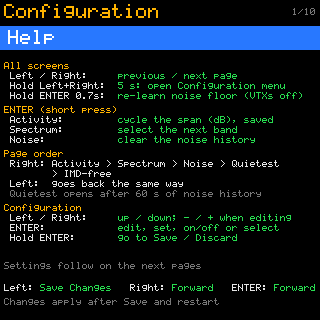
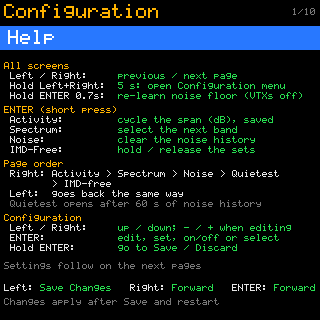
IMD hold, waterfall log curve (revisions 75-79)
- 75: ENTER on IMD-Free holds the channel sets (flashing "Hold", hint
  "ENTER: Hold / Release"); ENTER again or another page releases them
- 76: "Hold" in red, moved down slightly with the hint
- 77: Releasing the hold re-picks and redraws the sets at once
- 78: Waterfall colours on a log curve, "Waterfall log" setting on the
  Spectrum page (0 = linear)
- 79: Darker blue for no signal in the waterfall; Waterfall log default 8
- README: all 22 screenshots regenerated in the order the software shows them

Claude-Session: https://claude.ai/code/session_019ySrNfXnGwibRSQT1orRxf

Changed region(s): [[0.0, 0.4375, 0.9062, 0.7812], [0.7188, 0.4688, 0.875, 0.5625], [0.5625, 0.4688, 0.6562, 0.5625]]

diff --git a/FPV Channel Scanner/Page Quietest.cpp b/FPV Channel Scanner/Page Quietest.cpp
@@ -1,6 +1,6 @@
 /*
  * FPV Channel Scanner - Page Quietest.cpp
- * Revision: 74
+ * Revision: 79
  *
  * Quietest Channels and Quietest for HDZero pages: the QUIET_LIST_N
  * quietest channels from the Channel Noise history, in two columns of 8:
@@ -167,7 +167,46 @@ static void imdInvalidate() {
   imdDirty = true;
 }
 
+// ENTER on the IMD-Free page: "hold" freezes the sets (no re-picking) until
+// ENTER is pressed again or another page is shown. While held, "Hold"
+// flashes under the table.
+static bool imdHold = false;
+static int  imdHoldShown = -1, imdHintShown = -1;   // what's on screen, -1 = redraw
+
+static void imdDrawColumn(int col);
+static void imdDrawHold();
+
+// Takes effect at once, not at the end of the next grid sweep: on release
+// the sets are re-picked from the noise history (which kept collecting
+// while held) and redrawn right away; "Hold" and the hint update too.
+void imdToggleHold() {
+  imdHold = !imdHold;
+  imdHoldShown = imdHintShown = -1;
+  if (!imdHold) imdCompute();                        // released: re-pick now
+  for (int col = 0; col < IMD_COLS; col++) imdDrawColumn(col);
+  imdDrawHold();
+}
+
+static void imdDrawHold() {
+  int on = imdHold && (millis() / 500) % 2 == 0;     // flashes about once a second
+  if (on != imdHoldShown) {
+    lcdFill(0, IMD_HOLD_Y, LCD_W, 16, 0, 0, 0);
+    if (on) lcdText((LCD_W - 4 * 12) / 2, IMD_HOLD_Y, "Hold", 2, C_RED, C_BG);    // red
+    imdHoldShown = on;
+  }
+  if ((int)imdHold != imdHintShown) {                // button hint
+    lcdFill(0, IMD_HINT_Y, LCD_W, 8, 0, 0, 0);
+    const char *act = imdHold ? "Release" : "Hold";
+    int x = (LCD_W - 6 * (7 + (int)strlen(act))) / 2;
+    lcdText(x, IMD_HINT_Y, "ENTER:", 1, C_TEXT, C_BG);
+    lcdText(x + 42, IMD_HINT_Y, act, 1, C_GOOD, C_BG);
+    imdHintShown = imdHold;
+  }
+}
+
 static void imdDrawStatic() {
+  imdHold = false;                                    // a fresh visit is never held
+  imdHoldShown = imdHintShown = -1;
   lcdFill(0, 0, LCD_W, LCD_H, 0, 0, 0);
   lcdText(4, 4, "IMD-Free Channels", 2, C_GOOD, C_BG);     // green title
   for (int col = 0; col < IMD_COLS; col++) {
@@ -225,12 +264,15 @@ static void imdDrawColumn(int col) {
 static void imdDraw(bool learning, uint32_t learnStart) {
   static bool lastLearning = false, lastNoise = false;
   bool noise = actLastMs != 0;
-  if (imdDirty || noise != lastNoise || millis() - imdComputedMs >= IMD_REFRESH_MS) {
+  // Re-pick unless held (but always once, so there is something to show).
+  if (imdComputedMs == 0 ||
+      (!imdHold && (imdDirty || noise != lastNoise || millis() - imdComputedMs >= IMD_REFRESH_MS))) {
     imdCompute();
     if (noise != lastNoise) quietFooterDirty = true;
     lastNoise = noise;
   }
   for (int col = 0; col < IMD_COLS; col++) imdDrawColumn(col);
+  imdDrawHold();
 
   if (learning) {
     drawLearnProgress(FOOT_Y, (gridSweeps - learnStart) * 100 / GRID_LEARN_SWEEPS);

diff --git a/FPV Channel Scanner/Page Spectrum.cpp b/FPV Channel Scanner/Page Spectrum.cpp
@@ -1,6 +1,6 @@
 /*
  * FPV Channel Scanner - Page Spectrum.cpp
- * Revision: 74
+ * Revision: 79
  *
  * Spectrum page: continuous sweep across one band in SPEC_STEP_MHZ
  * steps, with channel markers, values and band buttons. The sweep point
@@ -8,7 +8,8 @@
  * channel is measured directly; points are drawn by their real frequency.
  * Under the graph, in a white box, a WF_H-pixel waterfall shows the last WF_H sweeps, one
  * pixel row each, newest at the top: weak signal is dark blue, strong signal
- * bright yellow (through purple and orange).
+ * bright yellow (through purple and orange), on a log curve ("Waterfall
+ * log" setting) so weak signals show up more.
  */
 
 #include "Scanner.h"
@@ -23,7 +24,7 @@ static uint8_t wfLut[WF_LEVELS][3];
 // Colour ramp: dark blue -> purple -> orange -> bright yellow.
 static void wfBuildLut() {
   static const float stop[4][4] = {      // position, R, G, B
-    { 0.00f,   0,   0,  60 },
+    { 0.00f,   0,   0,  35 },     // darker blue at the floor
     { 0.35f, 110,   0, 170 },
     { 0.70f, 240,  90,  30 },
     { 1.00f, 255, 255,   0 },
@@ -292,7 +293,11 @@ void specSweep() {
     float above = a0 + (a1 - a0) * t;     // trace is drawn even while learning
     if (above > bestAbove) { bestAbove = above; bestMhz = f; }
     int h = constrain((int)lroundf(above * GH / cfg.span), 0, GH);
-    wfNew[x] = (uint8_t)constrain((int)lroundf(above * (WF_LEVELS - 1) / cfg.span), 0, WF_LEVELS - 1);
+    // Waterfall colour: 0..1 of the span, through a log curve set by
+    // "Waterfall log" (0 = linear; higher lifts weak signals).
+    float wx = constrain(above / cfg.span, 0.0f, 1.0f);
+    if (cfg.wfLogK > 0) wx = logf(1.0f + cfg.wfLogK * wx) / logf(1.0f + cfg.wfLogK);
+    wfNew[x] = (uint8_t)constrain((int)lroundf(wx * (WF_LEVELS - 1)), 0, WF_LEVELS - 1);
     colPeak[x] = max(colPeak[x] - PEAK_DECAY_PX, (float)h); // peak hold, falling
     specDrawColumn(x, h, (int)colPeak[x]);
     if ((x & 31) == 0) pollInput();

diff --git a/FPV Channel Scanner/Config.h b/FPV Channel Scanner/Config.h
@@ -1,6 +1,6 @@
 /*
  * FPV Channel Scanner - Config.h
- * Revision: 74
+ * Revision: 79
  *
  * Hardware pins, tuning constants, shared types, frequency table, colors
  * and the undocumented ESP32-C5 radio access used by the scanner.
@@ -10,7 +10,7 @@
 
 // Firmware revision shown on the Save / Discard page. Keep it equal to the
 // "Revision:" line in the file headers.
-#define FW_REVISION 74
+#define FW_REVISION 79
 
 #include <Arduino.h>
 #include <SPI.h>
@@ -60,6 +60,7 @@ struct Settings {
   int imdRefreshS;   // IMD-free page: re-pick sets this often (s)
   int moveFadeMs;    // Quietest / IMD pages: moved-channel red fade time (0 = off)
   int lBandLimit;    // most L-band channels in a Quietest list or an IMD-free set (8 = no limit)
+  int wfLogK;        // spectrum waterfall log curve: 0 = linear, higher = weak signals brighter
 };
 
 // One line in the Configuration menu (Settings.cpp)
@@ -237,6 +238,8 @@ static const RGB C_HDZ   = {  40, 120, 255 };  // HDZero blue: "HDZ" marker, men
 #define IMD_Y0       48      // first channel row
 #define IMD_PITCH    30      // channel row spacing (scale-3 text)
 #define IMD_SCORE_Y  (IMD_Y0 + IMD_MAX_N * IMD_PITCH + 2)   // "IMD 100" under each column
+#define IMD_HOLD_Y   252     // flashing "Hold" under the IMD table
+#define IMD_HINT_Y   274     // "ENTER: Hold / Release" hint
 #define IMD_NEAR_MHZ 35      // an IMD product this close to a channel in use hurts it
 #define IMD_REFRESH_MS ((uint32_t)cfg.imdRefreshS * 1000u)  // re-pick with the latest noise history this often (User Interface page)
 #define MOVE_FADE_MS ((uint32_t)cfg.moveFadeMs)  // Quietest / IMD pages: a channel that moves shows red, fading back over this (User Interface page)

diff --git a/FPV Channel Scanner/Settings.cpp b/FPV Channel Scanner/Settings.cpp
@@ -1,6 +1,6 @@
 /*
  * FPV Channel Scanner - Settings.cpp
- * Revision: 74
+ * Revision: 79
  *
  * User settings: the values, their limits and defaults, loading them from
  * flash at start-up and saving them, plus helpers that depend on them.
@@ -40,6 +40,7 @@ Settings cfg = {
   10,    // imdRefreshS
   3000,  // moveFadeMs
   8,     // lBandLimit
+  8,     // wfLogK
 };
 
 const SettingDef SETTINGS[] = {
@@ -50,6 +51,7 @@ const SettingDef SETTINGS[] = {
   { "Spectrum", "Step",            "specStep",  &cfg.specStep,      2,  10,  1,  4, 0, 0, " MHz", "Sweep step; channels are always hit exactly" },
   { "Spectrum", "Samples/point",   "specSmp",   &cfg.specSamples,   1,   8,  1,  1, 0, 0, "",     "Readings averaged per point (3.2 ms each)" },
   { "Spectrum", "Peak decay",      "peakDecay", &cfg.peakDecay10,   2, 100,  2, 18, 0, 1, " px",  "How fast peak-hold dots fall, per sweep" },
+  { "Spectrum", "Waterfall log",   "wfLog",     &cfg.wfLogK,        0,  20,  1,  8, 0, 0, "",     "0 = linear; higher = weak signals brighter" },
   { "FPV Channel Noise", "Busy level",      "busyDb",    &cfg.busyDb,        1,  15,  1,  3, 0, 0, " dB",  "Signal above floor that counts as busy" },
   { "FPV Channel Noise", "Shading gamma",   "gamma",     &cfg.gamma100,     20, 100,  5, 55, 0, 2, "",     "Below 1 brightens small differences" },
   { "FPV Channel Noise", "Full red spread", "redSpread", &cfg.redSpread10,   1,  50,  1,  5, 0, 1, " dB",  "Quietest-to-busiest spread shown as full red" },

diff --git a/FPV Channel Scanner/Config Menu.cpp b/FPV Channel Scanner/Config Menu.cpp
@@ -1,6 +1,6 @@
 /*
  * FPV Channel Scanner - Config Menu.cpp
- * Revision: 74
+ * Revision: 79
  *
  * Configuration menu, opened by holding KEY_L + KEY_R for CONFIG_HOLD_MS on
  * any page.
@@ -240,6 +240,7 @@ static void drawHelpPage() {
   helpLine(y, "Activity:",        "cycle the span (dB), saved");
   helpLine(y, "Spectrum:",        "select the next band");
   helpLine(y, "Noise:",           "clear the noise history");
+  helpLine(y, "IMD-Free:",        "hold / release the sets");
   helpHeading(y, "Page order");
   lcdText(10, y, cfg.hdzero ? "Right: Activity > Spectrum > Noise"
                             : "Right: Activity > Spectrum > Noise > Quietest", 1, C_TEXT, C_BG);

diff --git a/FPV Channel Scanner/Scanner.h b/FPV Channel Scanner/Scanner.h
@@ -1,6 +1,6 @@
 /*
  * FPV Channel Scanner - Scanner.h
- * Revision: 74
+ * Revision: 79
  *
  * Shared declarations: every global variable (defined in State.cpp) and
  * every function, grouped by the file that defines it. Each .cpp file
@@ -180,6 +180,7 @@ void quietInvalidate();
 void quietDrawStatic();
 void quietDrawEntry(int slot, int idx);
 void quietDraw(bool learning, uint32_t learnStart);
+void imdToggleHold();             // IMD-Free page: ENTER freezes / releases the sets
 
 // ---------------------------------------------------------------- Page Spectrum.cpp
 int freqToCol(float mhz);

diff --git a/FPV Channel Scanner/Splash Image.h b/FPV Channel Scanner/Splash Image.h
@@ -1,6 +1,6 @@
 /*
  * FPV Channel Scanner - Splash Image.h
- * Revision: 74
+ * Revision: 79
  *
  * Generated from FPV Channel Scanner/Splash.PNG by tools/Make Splash Header.py - do not edit.
  * 320 x 320, 256-colour palette (R, G, B), one index byte per pixel.

diff --git a/FPV Channel Scanner/Display.cpp b/FPV Channel Scanner/Display.cpp
@@ -1,6 +1,6 @@
 /*
  * FPV Channel Scanner - Display.cpp
- * Revision: 74
+ * Revision: 79
  *
  * ILI9488 320x320 LCD driver (SPI, 18-bit color), text drawing with the
  * 5x7 font, and the CH32V003 IO expander used for LCD reset and backlight.

diff --git a/FPV Channel Scanner/Radio.cpp b/FPV Channel Scanner/Radio.cpp
@@ -1,6 +1,6 @@
 /*
  * FPV Channel Scanner - Radio.cpp
- * Revision: 74
+ * Revision: 79
  *
  * 5 GHz measurement: tuning with the internal phy_set_chanfreq(), reading
  * the baseband noise-floor estimator, the RSSI fallback when it stalls,

diff --git a/FPV Channel Scanner/Input.cpp b/FPV Channel Scanner/Input.cpp
@@ -1,6 +1,6 @@
 /*
  * FPV Channel Scanner - Input.cpp
- * Revision: 74
+ * Revision: 79
  *
  * KEY_L / KEY_R / ENTER button polling. Called often, including from inside
  * the radio sweeps, so presses are caught while a sweep is running.

diff --git a/FPV Channel Scanner/Screen Common.cpp b/FPV Channel Scanner/Screen Common.cpp
@@ -1,6 +1,6 @@
 /*
  * FPV Channel Scanner - Screen Common.cpp
- * Revision: 74
+ * Revision: 79
  *
  * Drawing shared by several pages (grid frame, Scanning dots, span /
  * history label, learning progress, title status), the pop-up, and

diff --git a/FPV Channel Scanner/Splash.cpp b/FPV Channel Scanner/Splash.cpp
@@ -1,6 +1,6 @@
 /*
  * FPV Channel Scanner - Splash.cpp
- * Revision: 74
+ * Revision: 79
  *
  * Start-up splash screen: the picture from Splash.PNG (stored in
  * "Splash Image.h", made by tools/Make Splash Header.py), with a blue hint
